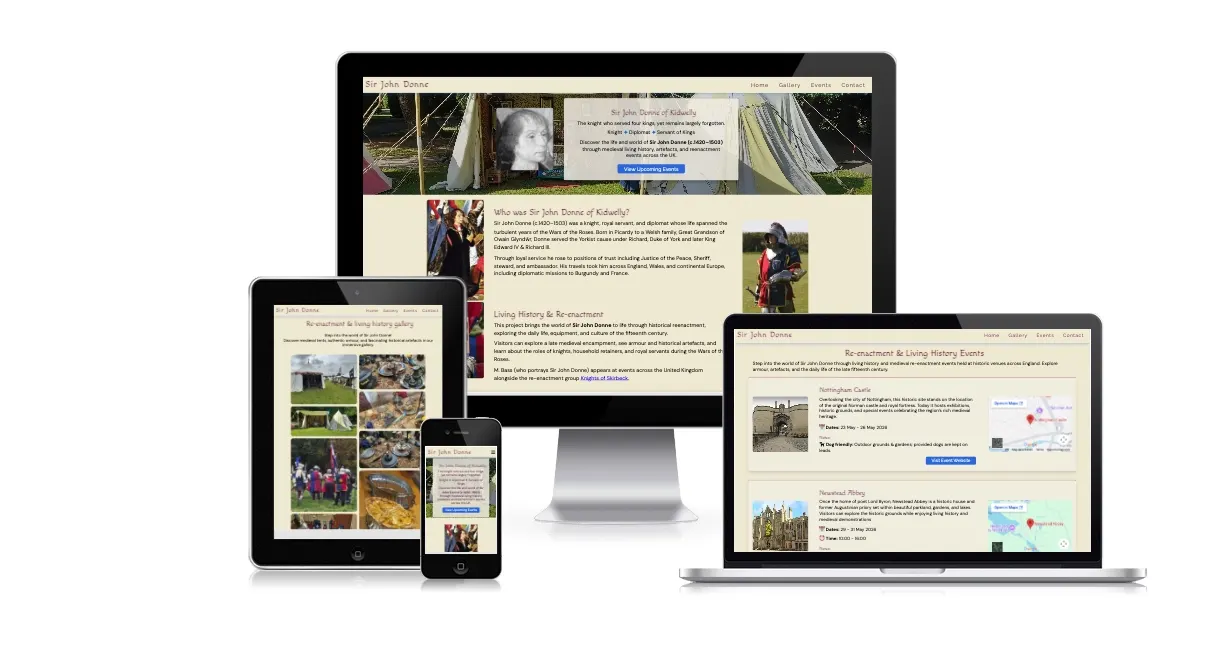
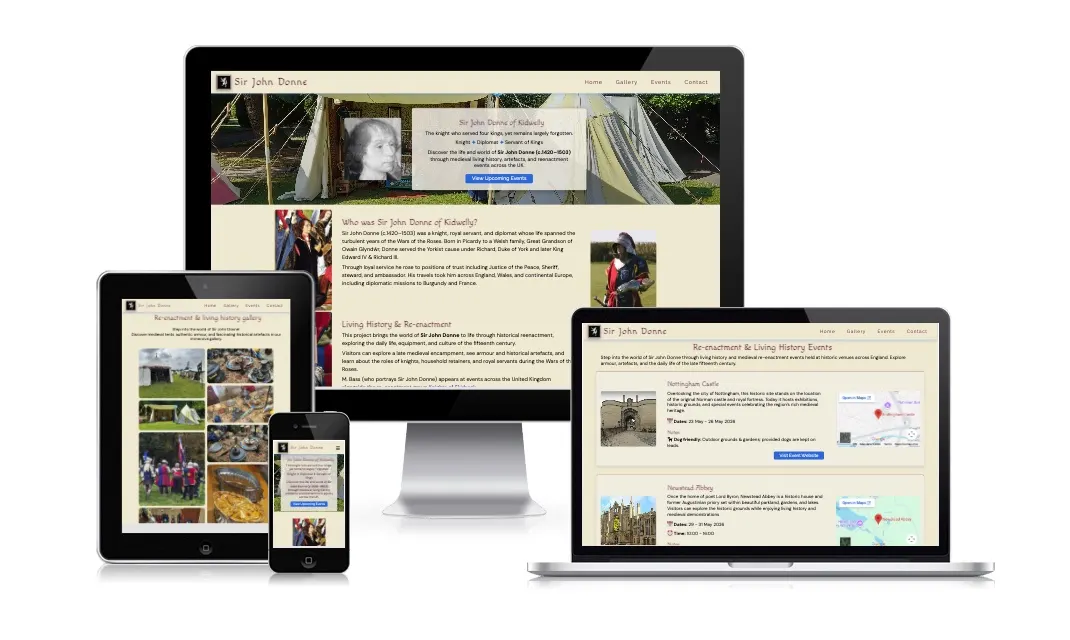
update README with updated mockup  at the top

diff --git a/README.md b/README.md
@@ -2,7 +2,14 @@
 
 [Live Site](https://david-cb-uk.github.io/sir-john-donne-reenactment/) | [Repository](https://github.com/David-CB-UK/sir-john-donne-reenactment)
 
-![Responsive Selection Mockup](assets/images/readme-images/responsive-mockup-range-of-pages.webp)
+![Responsive Selection Mockup](assets/images/readme-images/responsive-mockup-homepage.webp)
+
+<details><summary><strong>Mockup with a variety of pages (Click to open)</strong></summary>
+
+  ![Responsive Selection Mockup](assets/images/readme-images/responsive-mockup-range-of-pages.webp)
+  *Showing a range of site pages*
+</details>
+
 
 ## Table of Contents
 
